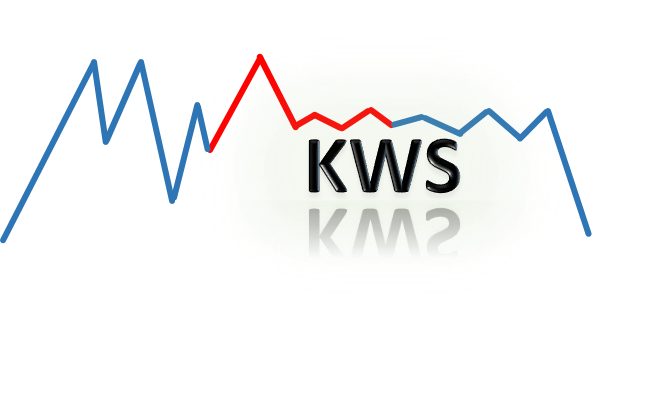
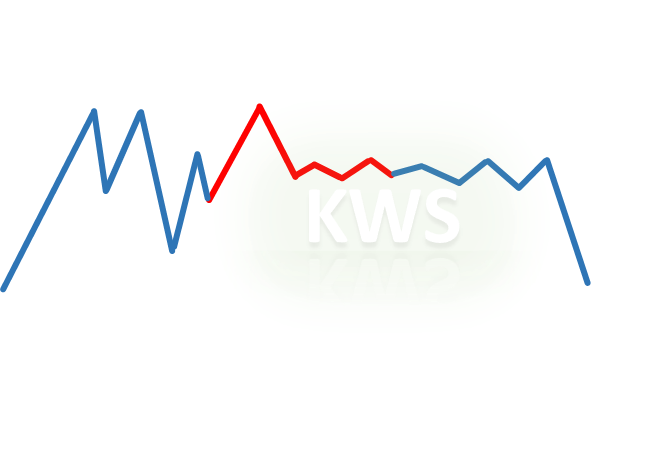
update slogan

Changed region(s): [[0.0, 0.1496, 0.9302, 0.6284]]

diff --git a/public/css/index.css b/public/css/index.css
@@ -17,8 +17,8 @@
 
 #slogan {
 	position:absolute;
-	top: 20px;
-	left: 40%;
+	top: 15px;
+	left: 41%;
 }
 
 #result {
